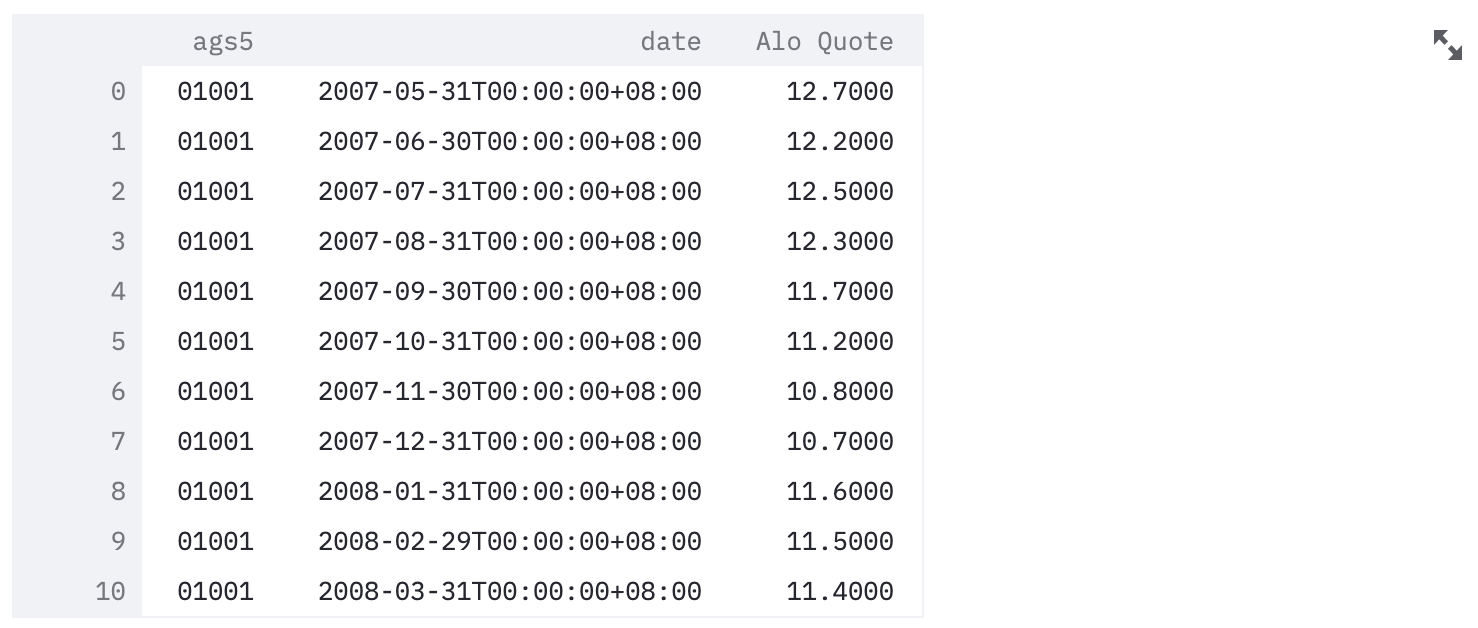
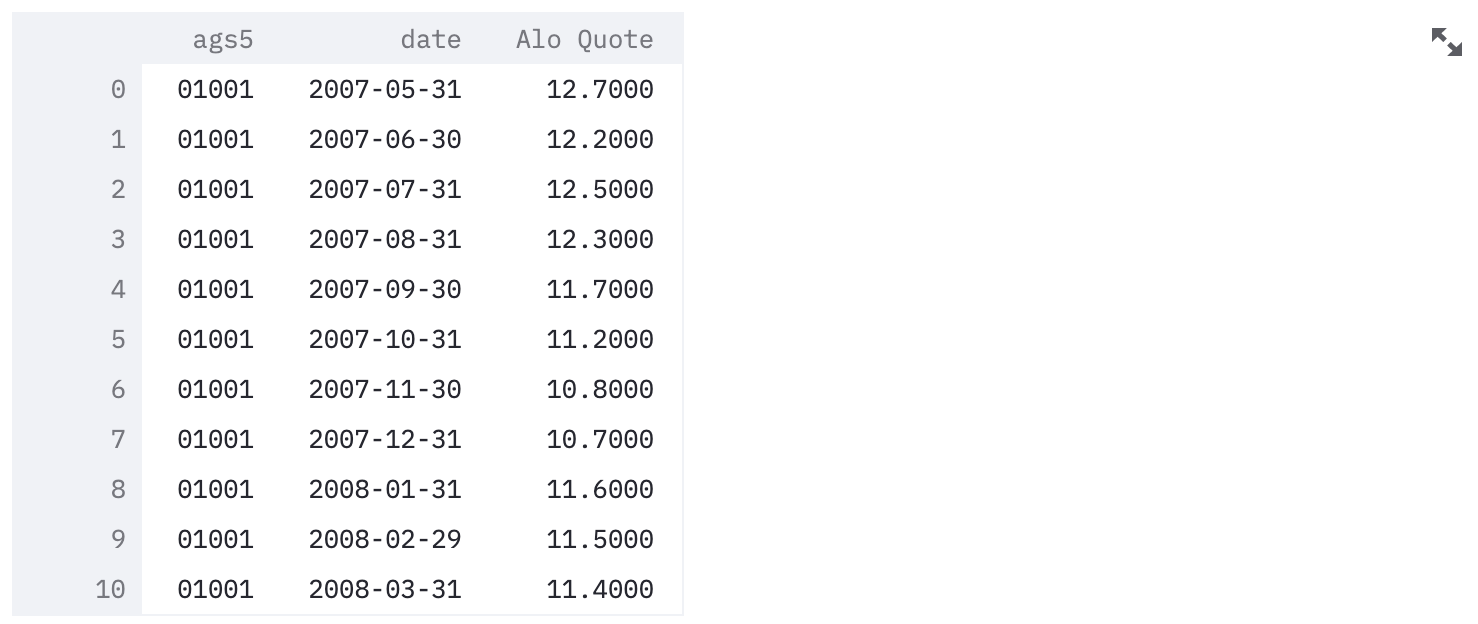
data prep debugging and doc update

diff --git a/pages/data_prep.py b/pages/data_prep.py
@@ -2,6 +2,7 @@
 from os import read, write
 import pandas as pd 
 import streamlit as st 
+from datetime import datetime
 
 # Custom modules 
 from .utils import *
@@ -26,7 +27,7 @@ def app():
         uploaded_file = st.file_uploader("Upload Excel Workbook", type="xlsx")
         
         # cache cleaning results
-        #@st.cache(suppress_st_warning=True, allow_output_mutation=True)
+        @st.cache(suppress_st_warning=True, allow_output_mutation=True)
         def load_cleanerObject(uploaded_file, data='Unemployment rate'):
             # get cleanerclass
             if data=='GDP':
@@ -37,48 +38,77 @@ def app():
 
         # ------------------------------ Cleaner Class workflow -------------------
         # (0) Select cleanerclass
-        st.markdown("**Pro Tip**: If you are encountering problems with the data cleaning, try clearning cache and run again.")
+        st.markdown("**Pro Tip**: If you are encountering problems, try clearing cache and run again.")
+        
         select_cleaner = st.selectbox("Select data to clean.", options=['Unemployment rate', 'GDP'], index=0,
                                         help='Refer to documentation for details about input excel workbook format.')
         cleanerObject = load_cleanerObject(uploaded_file, data=select_cleaner)
         sheet_names = [sheet_name for sheet_name, _ in cleanerObject.getAllUsefulSheets_long().items()]
-
-        # (1) Select wide or long format
-        select_format = st.selectbox("Select data format.", options=['long', 'wide'], index=0,
-                                    help='Refer to documentation for details about input and output formats.')
-        st.markdown('**Pro Tip**: For a single variable, which is the case of each sheet in the excel workbook.\
-                    Wide format is when each column is a date, and long format is when all dates are recorded in one column.')
         
-        # (2) Select the variables you want
-        select_var = st.multiselect("Select variables to merge data in the specified format.", options=sheet_names,
+        # # (1) Select the variables you want
+        # select_var = st.multiselect("Select variables to merge data in the specified format.", options=sheet_names,
+        #                             help='Refer to documentation for details about merging best practices.')
+        # st.markdown('**Pro Tip**: One single wide format data is suitable for univariate analysis.\
+        #             Multiple long format variable data merged together are known as the "wide format" data.')
+
+        # (1) Select the variable you want
+        select_var = st.selectbox("Select the one variable you want to feed in the model.", options=sheet_names,
                                     help='Refer to documentation for details about merging best practices.')
-        st.markdown('**Pro Tip**: One single wide format data is suitable for univariate analysis.\
-                    Multiple long format variable data merged together are known as the "wide format" data.')
         
-        # Merge files
+        # (2) Select wide or long format
+        select_format = st.selectbox("Select export data format.", options=['long', 'wide'], index=0,
+                                    help='Refer to documentation for details about input and output formats.')
+        st.markdown('**Pro Tip**: Wide format is when each column is a date, and long format is when all dates are recorded in one column.')
+        
+        # get cleaned data
         if select_format=='long':
-            # get selected sheet data
-            select_data = []
             for sheet_name, sheet_data in cleanerObject.getAllUsefulSheets_long().items():
-                if sheet_name in select_var:
-                    select_data.append(sheet_data)
-            # merge function
-            merged_df = long_merge_to_wide(select_data, select_var)
-        
-        else: #select_format=='wide'
-            # get selected sheet data
-            select_data = []
-            for sheet_name, sheet_data in cleanerObject.getAllUsefulSheets_wide().items():
-                if sheet_name in select_var:
-                    select_data.append(sheet_data)
-            # merge function
-            merged_df = wide_merge_to_long(select_data, select_var)
+                if sheet_name == select_var:
+                    merged_df = sheet_data.rename(columns={'value': sheet_name})
+                    merged_df['date'] = pd.to_datetime(merged_df['date'])
+                    merged_df['date'] = merged_df['date'].dt.date
 
+        else: #select_format=='wide'
+            for sheet_name, sheet_data in cleanerObject.getAllUsefulSheets_wide().items():
+                if sheet_name == select_var:
+                    merged_df = sheet_data
+                    #merged_df.columns = pd.to_datetime(merged_df.columns, format='%Y-%m-%d')
+                    date_list = merged_df.columns
+                    datetime_list = pd.to_datetime(date_list)
+                    date_only_list = []
+                    for date in datetime_list:
+                        date = datetime.strftime(date, '%Y-%m-%d')
+                        date_only_list.append(date)
+                    merged_df.columns = date_only_list
+        
         st.write(merged_df)
         
+        # # Merge files
+        # if select_format=='long':
+        #     # get selected sheet data
+        #     select_data = []
+        #     for sheet_name, sheet_data in cleanerObject.getAllUsefulSheets_long().items():
+        #         if sheet_name in select_var:
+        #             select_data.append(sheet_data)
+        #     # merge function
+        #     merged_df = long_merge_to_wide(select_data, select_var)
+        
+        # else: #select_format=='wide'
+        #     # get selected sheet data
+        #     select_data = []
+        #     for sheet_name, sheet_data in cleanerObject.getAllUsefulSheets_wide().items():
+        #         if sheet_name in select_var:
+        #             select_data.append(sheet_data)
+        #     # merge function
+        #     merged_df = wide_merge_to_long(select_data, select_var)
+
+        # st.write(merged_df)
+        
         # Confirm merge and then saves to next section of this page to crop timeframe
-        confirm_merge_data = st.radio("Confirm merged dataframe", options=["Yes", "No"], index=1,
-                                        help='Preview and confirm merged data brings you to timeframe cropping section of data prepartion.')
+        # confirm_merge_data = st.radio("Confirm merged dataframe", options=["Yes", "No"], index=1,
+        #                                 help='Preview and confirm merged data brings you to timeframe cropping section of data prepartion.')
+        confirm_merge_data = st.radio("Confirm dataframe", options=["Yes", "No"], index=1,
+                                        help='Preview and confirm data brings you to timeframe cropping section of data prepartion.')
         
         if confirm_merge_data == 'Yes':
             merged_df.to_csv('data/merged_df.csv', index=False, encoding='latin_1')

diff --git a/util_classes/CleanerClassGDP.py b/util_classes/CleanerClassGDP.py
@@ -364,10 +364,10 @@ class CleanerClassGDP:
             
             for df_name, df_og in self.sheets.items():
                 df = df_og.copy()
-                df = pd.DataFrame([ [ags5, time_stamp, row[time_stamp]] 
+                df = pd.DataFrame([ [ags5, date, row[date]] 
                                     for ags5, row in df.iterrows() 
-                                    for  time_stamp in df.columns ])
-                df.columns = ['ags5', 'time_stamp', 'value']
+                                    for  date in df.columns ])
+                df.columns = ['ags5', 'date', 'value']
                 
                 self.sheets_long[df_name] = df
                 

diff --git a/util_classes/CleanerClassUR.py b/util_classes/CleanerClassUR.py
@@ -314,10 +314,10 @@ class CleanerClassUR:
             
             for df_name, df_og in self.sheets.items():
                 df = df_og.copy()
-                df = pd.DataFrame([ [ags5, time_stamp, row[time_stamp]] 
+                df = pd.DataFrame([ [ags5, date, row[date]] 
                                     for ags5, row in df.iterrows() 
-                                    for  time_stamp in df.columns ])
-                df.columns = ['ags5', 'time_stamp', 'value']
+                                    for  date in df.columns ])
+                df.columns = ['ags5', 'date', 'value']
                 
                 self.sheets_long[df_name] = df
                 

diff --git a/documentation/docs/steps/data_prep.md b/documentation/docs/steps/data_prep.md
@@ -2,8 +2,6 @@
 
 Upload the dataset and make any necessary changes to fit the prediction model. 
 
-<span style="color:red">^ What are other data cleaning that could be needed?</span>
-
 ## Reshape and merge datasets
 
 This section process data differently for excel or csv files, and for time-series or structural data type. It assumes that:
@@ -12,9 +10,9 @@ This section process data differently for excel or csv files, and for time-serie
 
 - **structural** data are in **long**-format **csv** files, where each row is a record of one kreis, and each column is one variable
 
-- both assumes to have at least a column containing the kreis-level area code ("")
+- both assumes to have one column containing the kreis-level area code `ags5` ("amtlicher gemeindeschlüssel")
 
-## Exporting excel worksheets
+## Time-series data excel workbook
 
 ### Error Handling
 
@@ -61,19 +59,22 @@ Because each data is formatted differently in the excel workbook, we created dif
 </i>
 
 
+
+### Select variable
+
+![select variable](../prep_screenshots/select_var.png)
+
+<span style="color:gray">*Choose at least one variable. Choosing no variables at all would result in the IndexError above.*</span>
+
 ### Select data format
 
 ![select data format](../prep_screenshots/select_format.png)
-
-<span style="color:red">^ Change to select "export" data format</span>
 
 #### Long format
 
 ![long format one variable](../prep_screenshots/long_one.png)
 
 <span style="color:gray">*This is an example of a single-variable "long" format data. The dataframe contains three columns: the kreis code (`ags5`), the time (`date`), and the variable (e.g. `Alo Quote`). The number of rows of this file is 401 kreis * #dates for each kreis.*</span>
-
-<span style="color:red">^ If this confusing should we just call it wide format?</span>
 
 #### Wide format
 
@@ -82,13 +83,9 @@ Because each data is formatted differently in the excel workbook, we created dif
 <span style="color:gray">*This is an example of a single-variable "wide" format data. The dataframe contains one index column, the kreis code (`ags5`), and the rest of the columns are dates. The number of rows of this file should be 401.*</span>
 
 
-### Select variable
 
-![select variable](../prep_screenshots/select_var.png)
 
-<span style="color:gray">*Choose at least one variable. Choosing no variables at all would result in the IndexError above.*</span>
-
-### Merging
+<!-- ### Merging
 
 #### Long formats merged to one wide format
 
@@ -106,10 +103,10 @@ Because each data is formatted differently in the excel workbook, we created dif
 
 ![confirm merge](../prep_screenshots/confirm_merge.png)
 
-<span style="color:gray">*A preview of the merged data would be shown like the long and wide formats above. Once you confirm to use the merged data, it would be set as the default loaded dataset on the tool.*</span>
+<span style="color:gray">*A preview of the merged data would be shown like the long and wide formats above. Once you confirm to use the merged data, it would be set as the default loaded dataset on the tool.*</span> -->
 
 
-## Merging multiple csv files
+## Structural data csv files
 
 ![csv](../prep_screenshots/csv.png)
 
